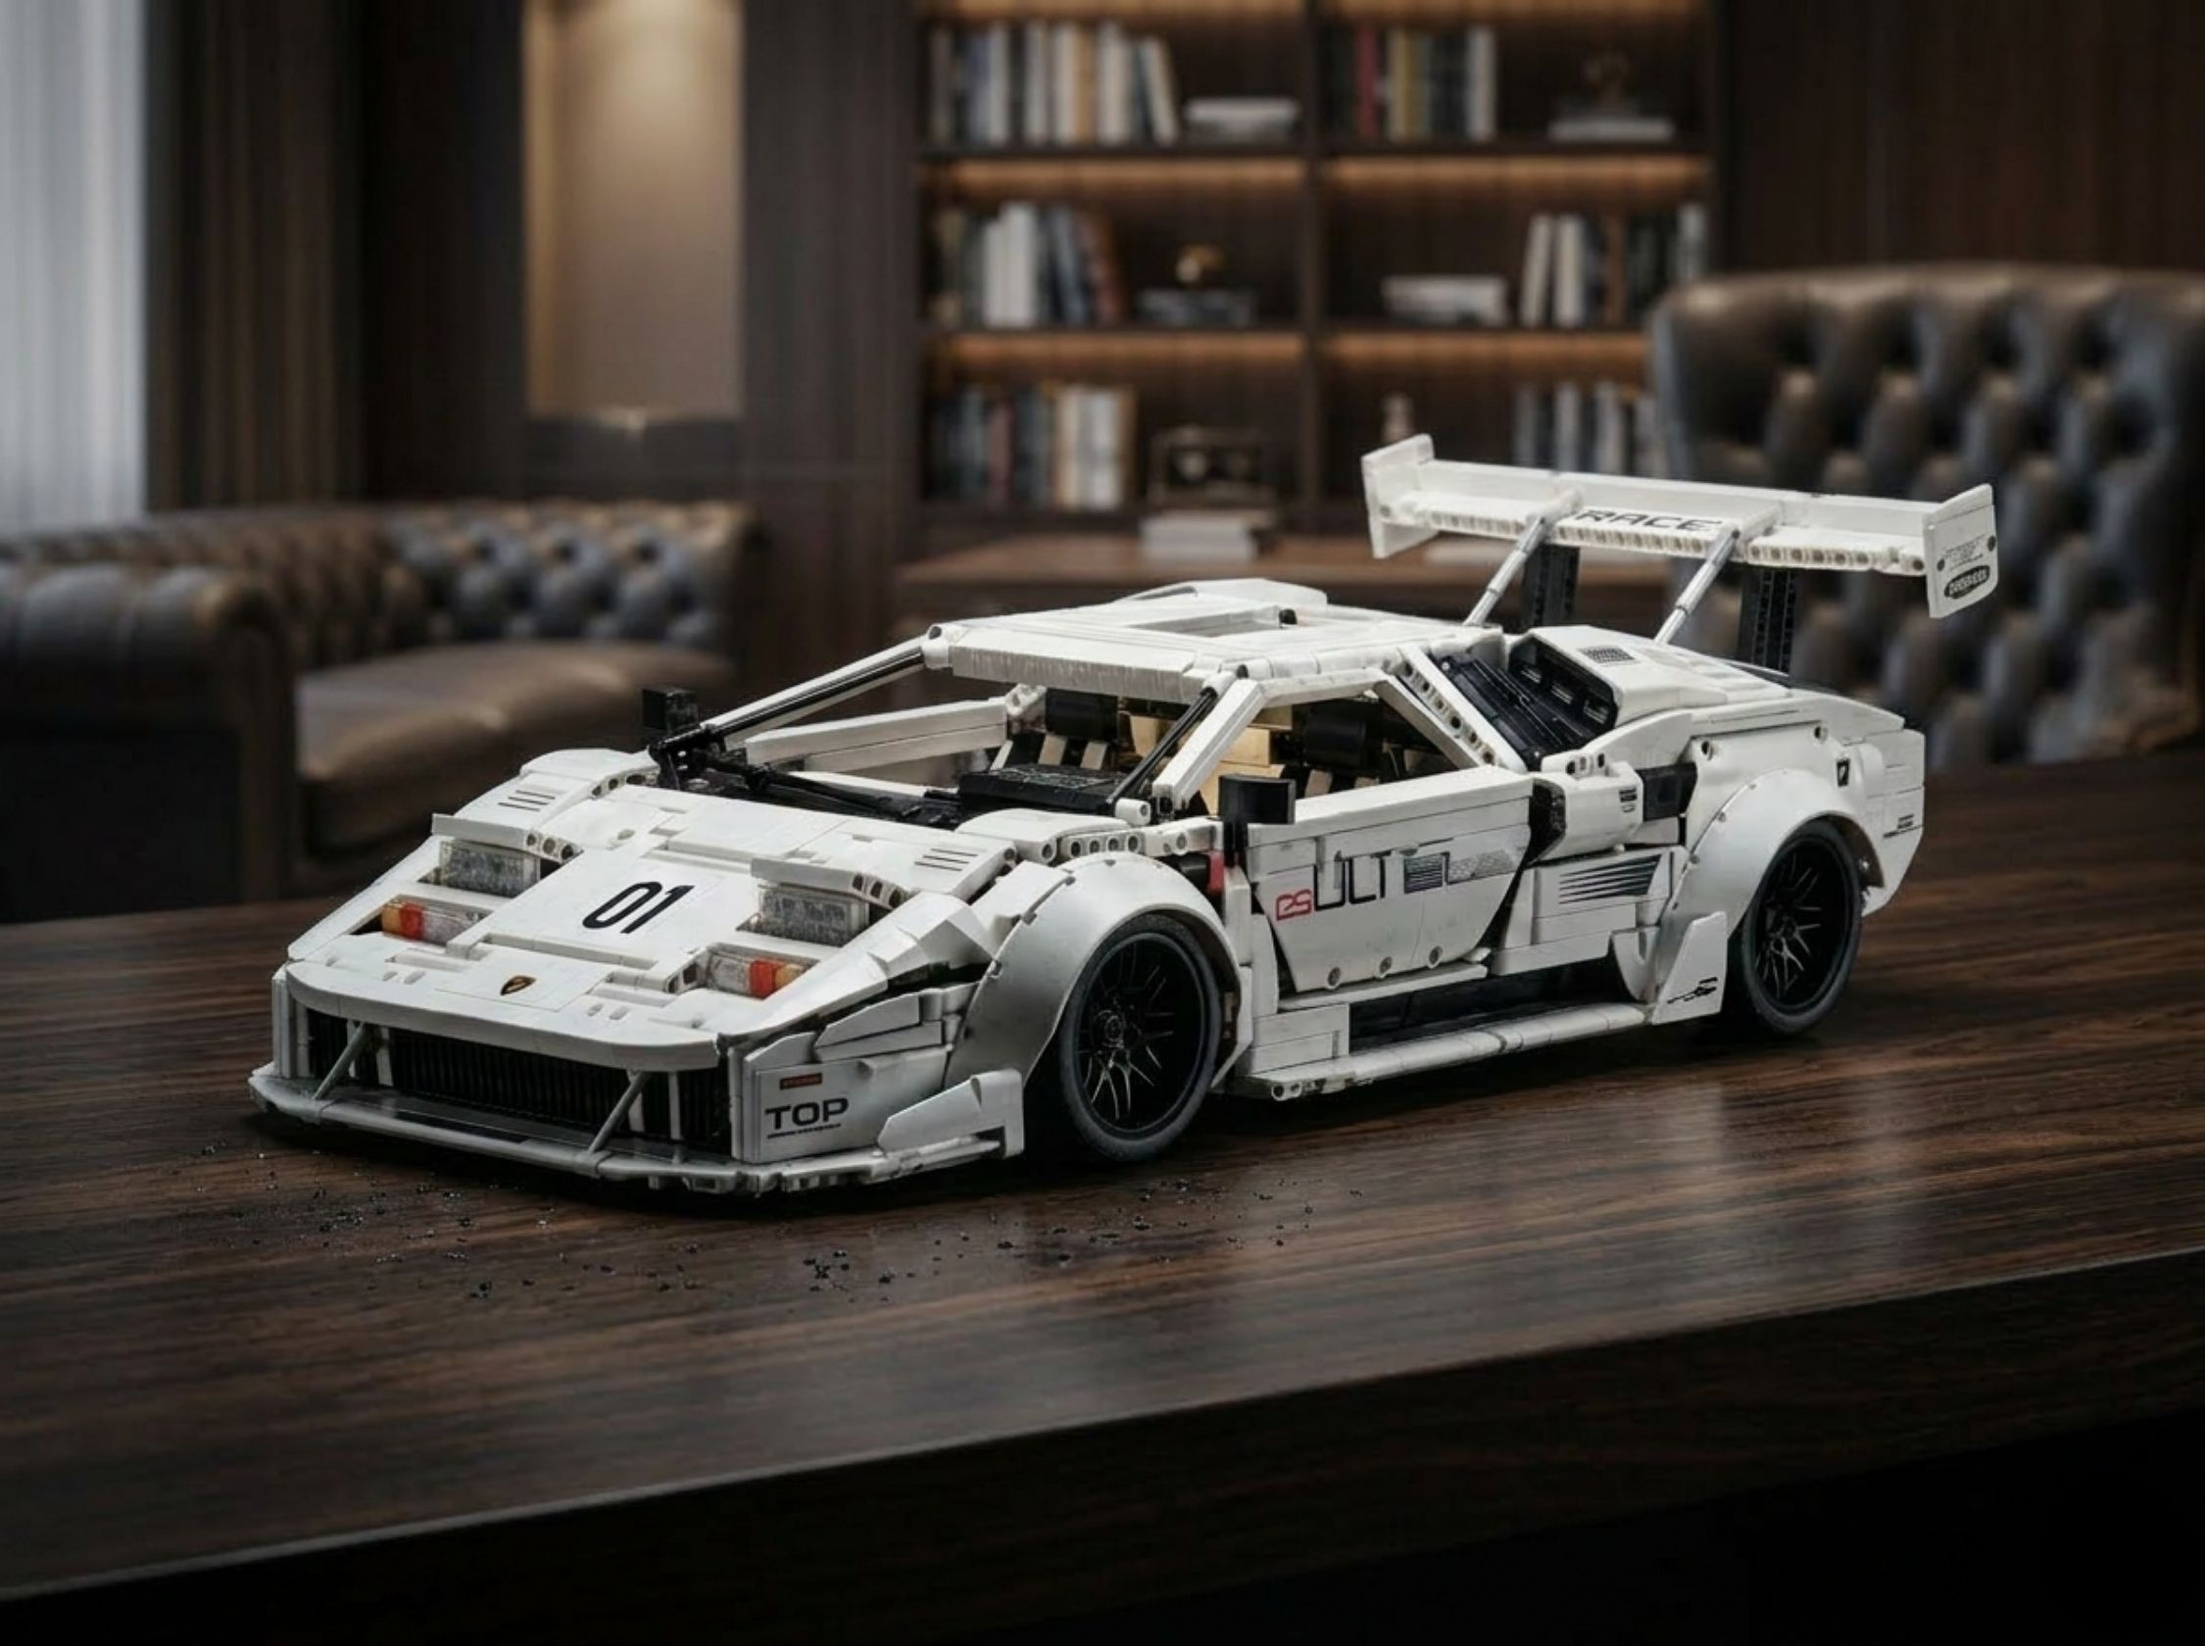
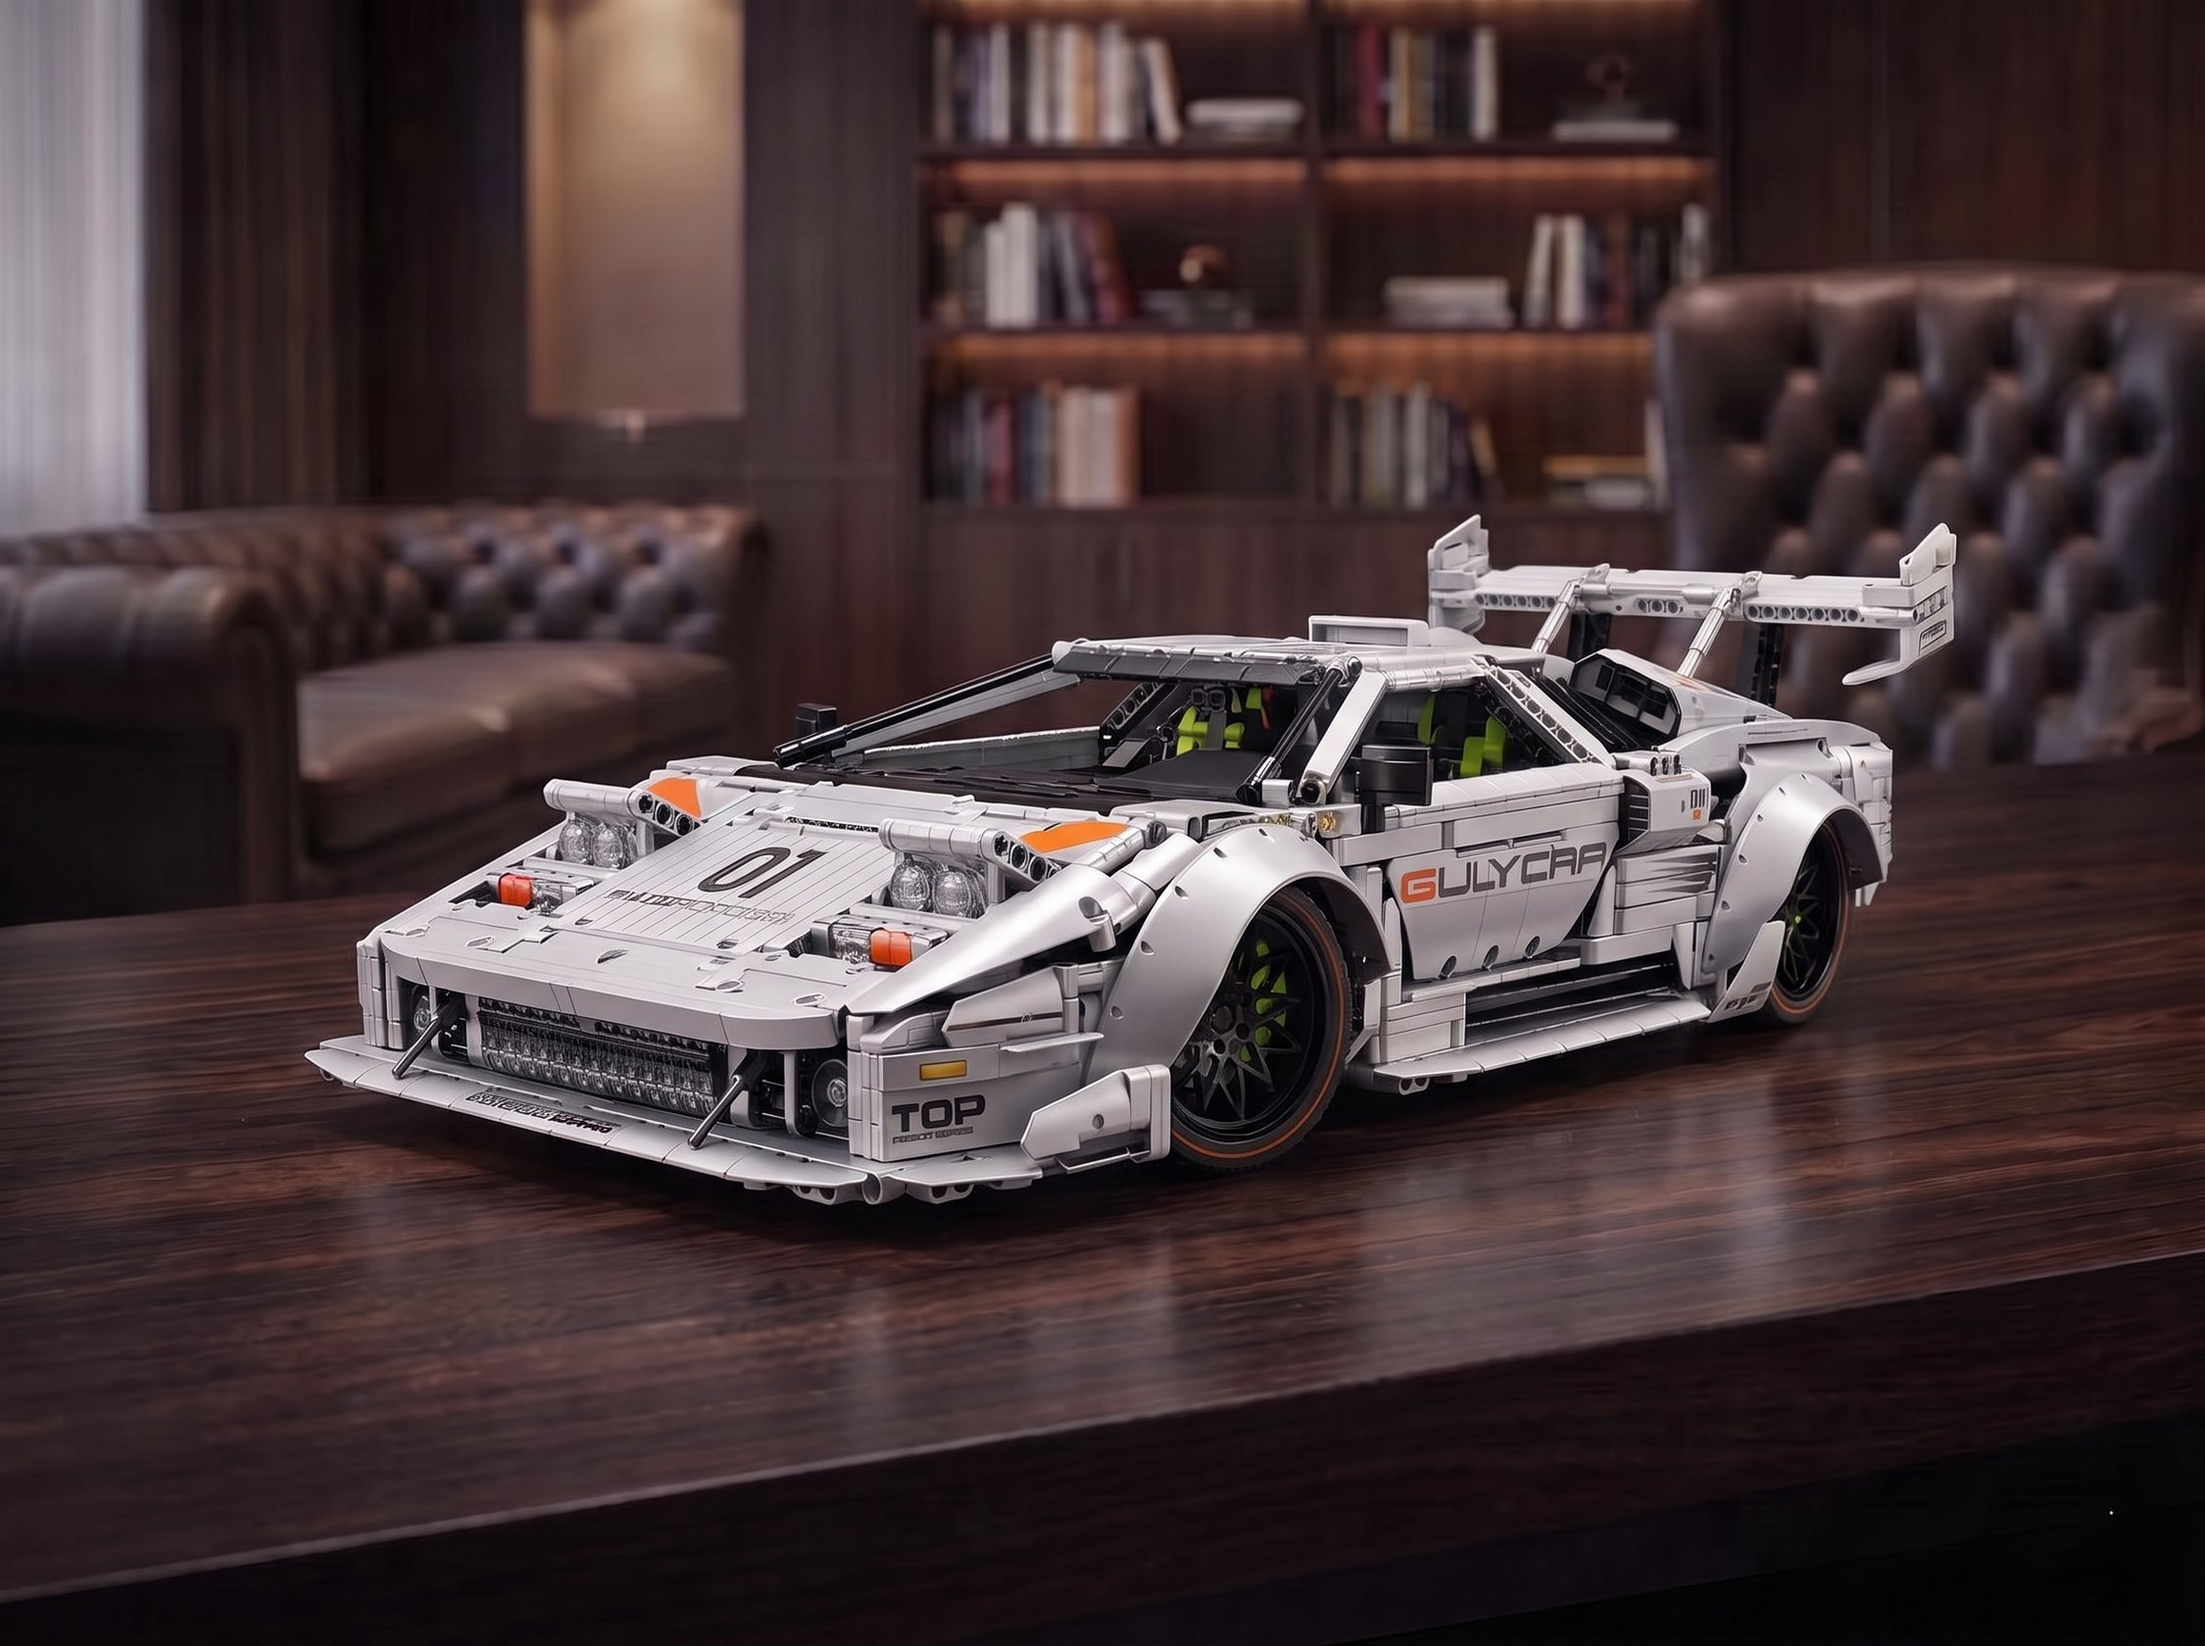
Refresh low-resolution product covers with new pixel-fidelity renders
13 of 17 covers were holdovers from an earlier project phase at low
resolution. Regenerated all of them from user-supplied reference photos
using the same pixel-fidelity + standard-scene pipeline already used for
galleries, with a few correction rounds (wing color, closed doors,
background lighting consistency, headlight detail, correct decals).
Filenames are unchanged so no image_url migration is needed.

diff --git a/docs/product-gallery-project.md b/docs/product-gallery-project.md
@@ -1,8 +1,9 @@
 # Projeto: galerias de fotos ambientadas dos produtos Studio 18
 
-**Status em 31/08/2026: galerias completas nos 17 produtos. Nova frente
-de trabalho aberta: refazer capas de baixa resolução** — ver seção
-"Refazendo capas de baixa resolução" logo abaixo.
+**Status em 31/08/2026: catálogo completo — todos os 17 produtos têm
+galeria E capa em boa resolução.** Ver seção "Capas de baixa resolução
+refeitas" logo abaixo pra lições aprendidas nessa rodada, caso precise
+refazer mais alguma capa no futuro.
 
 ## Objetivo
 
@@ -57,34 +58,56 @@ separada — ver seção "Vídeos de produto"): S18-009 (`046`), S18-014
 confirmada ao retomar — não assumir que produção está sincronizada sem
 perguntar.
 
-## 🖼 Refazendo capas de baixa resolução (aberto em 31/08/2026)
+## ✅ Capas de baixa resolução refeitas (31/08/2026)
 
-Depois que as galerias ficaram completas, o usuário notou que a maioria
-das **capas** (`image_url`, campo separado da galeria) foi herdada de uma
-fase anterior do projeto e está em resolução baixa. Só 4 produtos têm
-capa boa hoje: **S18-002 (BMW R1300GS), S18-007 (Mazda 787B), S18-016
-(Land Rover Discovery) e S18-017 (Aventador SVJ)** — não mexer nessas.
+O usuário notou que a maioria das **capas** (`image_url`, campo separado
+da galeria) tinha sido herdada de uma fase anterior do projeto e estava
+em resolução baixa. Só 4 produtos já tinham capa boa desde antes:
+**S18-002 (BMW R1300GS), S18-007 (Mazda 787B), S18-016 (Land Rover
+Discovery) e S18-017 (Aventador SVJ)**.
 
-Fluxo combinado: criei `site/public/covers-raw/` (mesmo padrão de
-`products-raw/`, um `README.md` geral + uma subpasta por SKU com slug
-idêntico ao de `products-raw/`) pros outros 13 produtos:
+Fluxo usado: `site/public/covers-raw/` (mesmo padrão de `products-raw/`)
+recebeu 1 foto de referência por SKU pros outros 13 produtos (S18-001,
+003, 004, 005, 006, 008, 009, 010, 011, 012, 013, 014, 015) — o usuário
+acabou subindo todas soltas na raiz da pasta em vez de dentro de cada
+subpasta, mas os nomes de arquivo deixavam claro qual SKU era cada uma.
+Cada capa nova foi gerada com o pipeline padrão (pixel-fidelity na foto
+de referência + cena padrão do site) e **sobrescreveu o arquivo
+`site/public/products/S18-0XX.jpg` com o mesmo nome** — como o nome do
+arquivo não mudou, não precisou de migration (o `image_url` no banco já
+apontava pro mesmo caminho).
 
-- S18-001, S18-003, S18-004, S18-005, S18-006, S18-008, S18-009, S18-010,
-  S18-011, S18-012, S18-013, S18-014, S18-015.
+**Lições desta rodada** (importantes se precisar refazer mais alguma
+capa no futuro):
 
-O usuário sobe 1+ foto(s) do produto no mesmo ângulo/pose da capa atual
-em cada subpasta. Pipeline pra gerar a capa nova é o mesmo já validado
-pras galerias (pixel-fidelity na foto de referência + cena padrão do
-site) — só que o resultado vai direto pra `site/public/products/S18-0XX.jpg`
-(sobrescrevendo a capa antiga, mesmo nome de arquivo) em vez de virar uma
-entrada nova em `image_urls`. Cada substituição de capa também pede uma
-migration `update products set image_url = ... where sku = ...` (a menos
-que o nome do arquivo continue exatamente igual, caso em que só
-sobrescrever o arquivo já basta — mas gerar a migration mesmo assim deixa
-rastro e cobre o caso de mudar o Supabase de storage local no futuro).
-
-**Nenhuma foto foi subida em `covers-raw/` ainda nesta sessão** — ao
-retomar, checar se o usuário já subiu alguma antes de perguntar de novo.
+1. **Não copiar detalhes da capa antiga/errada pro prompt.** No S18-001
+   (LP5000) e no S18-003 (Porsche 963) o prompt inicial descreveu
+   aerofólio/adesivos que eu lembrava da versão antiga do site, não os
+   que realmente apareciam na foto de referência nova — saiu aerofólio
+   preto em vez de branco, e sem os adesivos "RACEFORGE"/"GULY" corretos.
+   Sempre **olhar a foto de referência com atenção** (inclusive dar zoom
+   em detalhes pequenos como faróis) antes de escrever o prompt, em vez
+   de confiar na memória de como o produto "geralmente" é.
+2. **Portas abertas por padrão.** O modelo tende a gerar a porta
+   levantada/aberta mesmo sem pedir (aconteceu no S18-001 e no S18-011).
+   Se a referência mostra porta fechada, escrever explicitamente "door
+   CLOSED, normal closed position, do not show it lifted or open".
+3. **Iluminação de fundo pode variar entre gerações** mesmo usando a
+   mesma imagem de cena como referência (aconteceu no S18-008: saiu com
+   luzes da estante acesas/brilhantes, diferente do padrão apagado/quente
+   das outras capas). Se acontecer, adicionar instrução explícita tipo
+   "books softly lit from within the shelves, subtle low-key warm glow,
+   NOT bright overhead lights" e regenerar.
+4. **Farol/detalhe pequeno pode sumir na geração** mesmo com boa
+   referência — o Porsche 963 perdeu o conjunto de 4 elementos de LED do
+   farol dianteiro na primeira tentativa. Deu zoom na região específica
+   da referência, descrevi os elementos individualmente (quantidade,
+   forma, cor) e funcionou na segunda tentativa.
+5. Quando o usuário reprova um resultado e sobe uma referência nova
+   inteira (não uma correção de prompt), sempre regenerar do zero com a
+   nova imagem — foi o caso do S18-009 (Maserati) e do S18-010 (Fórmula
+   1, que tinha saído com a decalagem errada de outra equipe de F1 em vez
+   da decalagem própria REOBRIX do produto).
 
 ## ✅ S18-005 (Pagani Utopia) — resolvido em 31/08/2026
 
